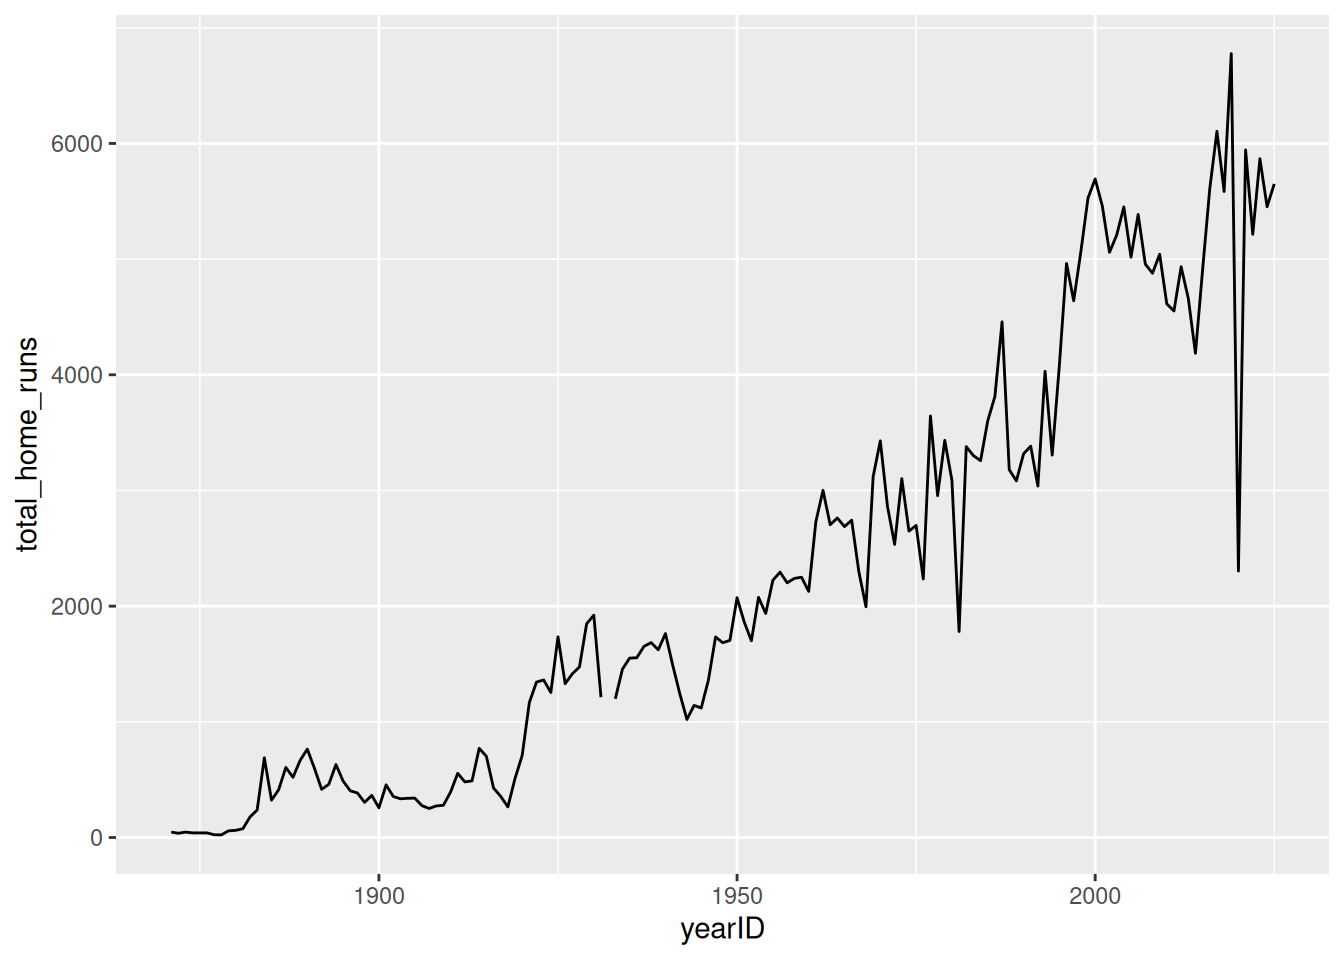
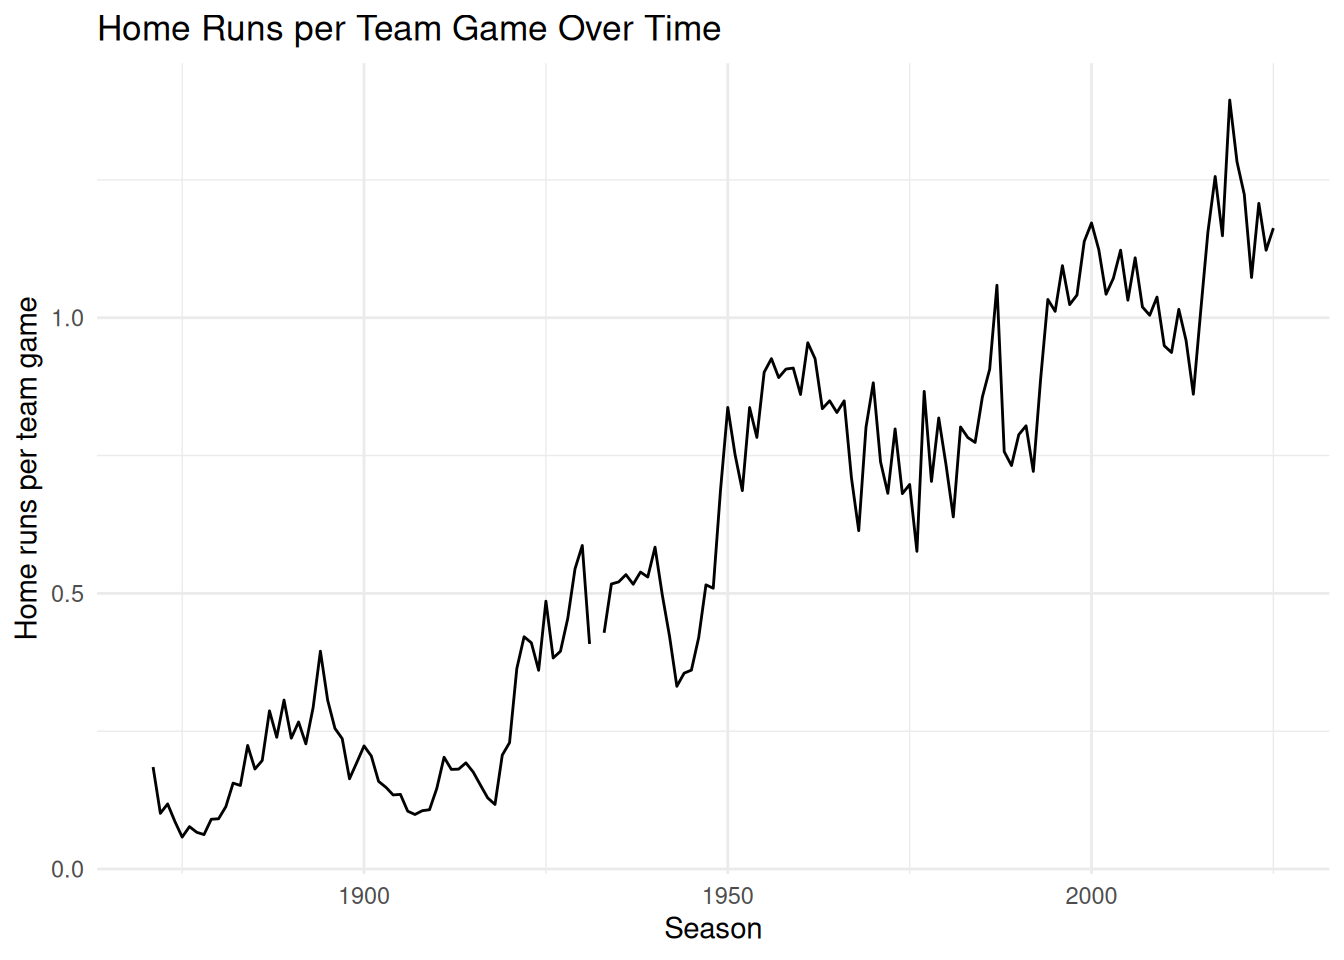
yup

diff --git a/_site/index.html b/_site/index.html
@@ -93,6 +93,10 @@ ul.task-list li input[type="checkbox"] {
     <a class="nav-link" href="./home-runs.html"> 
 <span class="menu-text">Home runs</span></a>
   </li>  
+  <li class="nav-item">
+    <a class="nav-link" href="./sluggers.html"> 
+<span class="menu-text">Sluggers</span></a>
+  </li>  
 </ul>
           </div> <!-- /navcollapse -->
             <div class="quarto-navbar-tools">
@@ -127,7 +131,8 @@ ul.task-list li input[type="checkbox"] {
 </header>
 
 
-<p>Welcome! This site explores the history of Major League Baseball through its data, using the Lahman database. We’ll use those records to see how the game and its players have changed over time.</p>
+<p>This site uses Lahman baseball records to explore how home-run hitting has changed over time. Home runs per team game rose from about 0.79 in 1990 to a peak of 1.39 in 2019, before falling to about 1.12 in 2024.</p>
+<p>The Sluggers page ranks career home-run leaders: Barry Bonds leads with 762, followed by Hank Aaron and Babe Ruth. Use the analysis pages in the navbar to explore the season-by-season trend and the player leaderboard.</p>
 
 
 

diff --git a/_site/home-runs.html b/_site/home-runs.html
@@ -93,6 +93,10 @@ ul.task-list li input[type="checkbox"] {
     <a class="nav-link active" href="./home-runs.html" aria-current="page"> 
 <span class="menu-text">Home runs</span></a>
   </li>  
+  <li class="nav-item">
+    <a class="nav-link" href="./sluggers.html"> 
+<span class="menu-text">Sluggers</span></a>
+  </li>  
 </ul>
           </div> <!-- /navcollapse -->
             <div class="quarto-navbar-tools">
